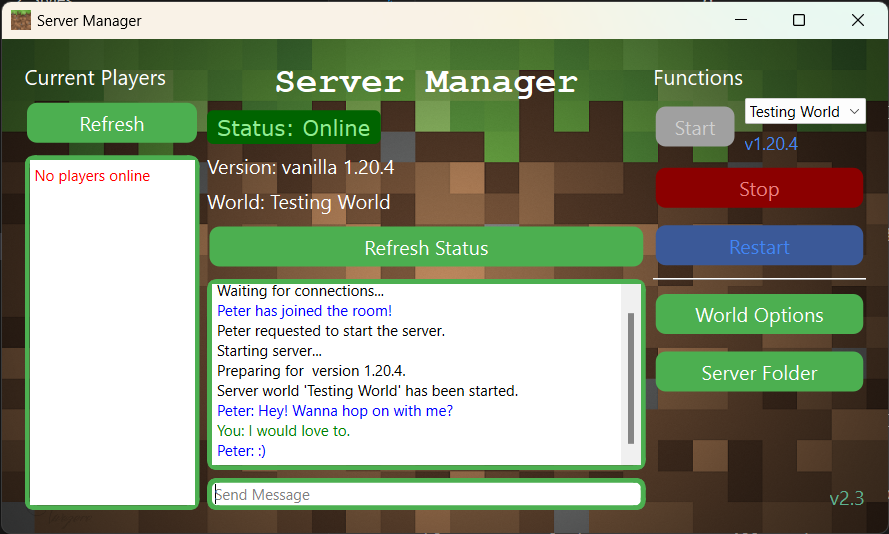
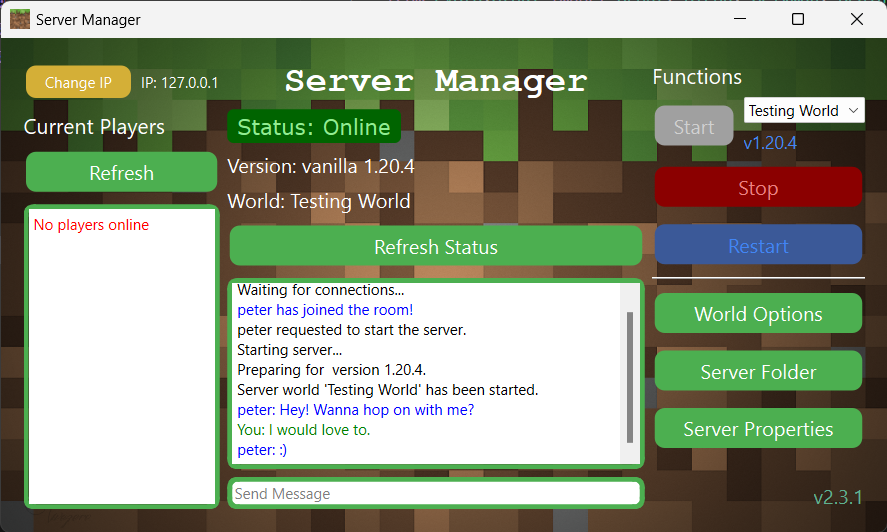
update to readme

diff --git a/README.md b/README.md
@@ -16,9 +16,10 @@ Through this manager both the host and clients will have the ability to
   
 The host has the ability to
 - Choose what worlds he would like the clients to be able to choose from (including worlds running fabric.)
-- Easily add existing worlds to the available worlds.
+- Easily add or remove worlds to the available worlds list.
 - Create new worlds from scratch to be directly added to the list. Use any version, and optionally set a seed and/or set the world as using fabric.
 - Quickly backup server worlds.
+- Quick server folder and properties access.
 
 ## Host Instructions
 If you are hosting the server on your computer, you must have your manager_host program running for others to be able to control the server. You will need a Java Runtime (JRE) in order to run the server, so download one if you do not already have it. Different versions require different minimum JRE versions.
@@ -35,7 +36,7 @@ If you set up the folder automatically, it will also prompt you to accept the eu
 ![EULA Image](Images/eula.png)  
 Your manager is now ready to start hosting a server, but first it will prompt you to enter the hosting ip. This is what the clients will use to connect.  
 ![IP Prompt Image](Images/ip.png)  
-If you set an IP as the default, it will attempt to use that IP address without ever prompting you again.
+If you set an IP as the default, it will attempt to use that IP address on startup without ever prompting you again.
   
 Once you have run the program, it will have created a file called `manager_settings.json`. Inside this settings file, it will save the IP you are hosting from (defaults to localhost), the displayed names of the clients connecting to your manager, the server path, and will store the names of the server worlds you choose. 
 
@@ -62,23 +63,23 @@ Once you have run the program, it will have created a file called `manager_setti
 }
 ```
 
-### Step 3
+### Host Functionality
 **<u>Changing the Host IP</u>**  
-If you wish to change the ip that you are hosting from but you have already set a default IP, simply change the `ip` value in the created manager settings. If the server is unable to use the set ip to host from, it will prompt you again to, either set a new IP just this time, or set a new default.
+If you wish to change the ip that you are hosting from but you have already set a default IP, you can change the IP being used at any time with the `Change IP` button in the top left corner.
 
 **<u>Adding a World</u>**  
 In order to add a world to the manager, you can either generate a new world, or use an existing world folder.
 
 #### Using an Existing World
-Place the world folder in the `worlds` directory created in your server directory. Next, go to `World Options` in the manager and hit `Add Existing`. Include the correct version number. Optionally, mark whether it is a fabric server or not.
+Place the world folder in the `worlds` directory created in your server directory. Next, go to `World Options` in the manager and hit `Add Existing`. If this world has been used in the manager in the past, the version number should default to the previous version set. Otherwise, you can select the correct version for the world. Optionally, mark whether it is a fabric server or not.
 
 > Note:  
-Setting the world to a higher version than it was created in will likely successfully upgrade the world to a higher version. However, it will never be able to be downgraded again. If you wish to do this, creating a backup of the world first may be recommended.  
+Setting the world to a higher version than it was created in will likely successfully upgrade the world to a higher version (not guaranteed, though). However, it will never be able to be downgraded again. If you wish to do this, creating a backup of the world first may be recommended.  
 
 After you have added the new world, it will automatically update the list of worlds for yourself and all clients.
 
 #### Generating a New World
-Go to the `World Options` in the manager and hit `Create New World`. Enter the world name, a valid version, a seed, and specify if it is a fabric server. Once you hit `Create World`, the world will be added to the list. However, the world itself will not be generated until the first time the server starts the world.
+Go to the `World Options` in the manager and hit `Create New World`. Enter the world name, a version, a seed (optional), and specify if it is a fabric server. Once you hit `Create World`, the world will be added to the list. However, the world itself will not be generated until the first time the server starts the world.
 
 #
   
